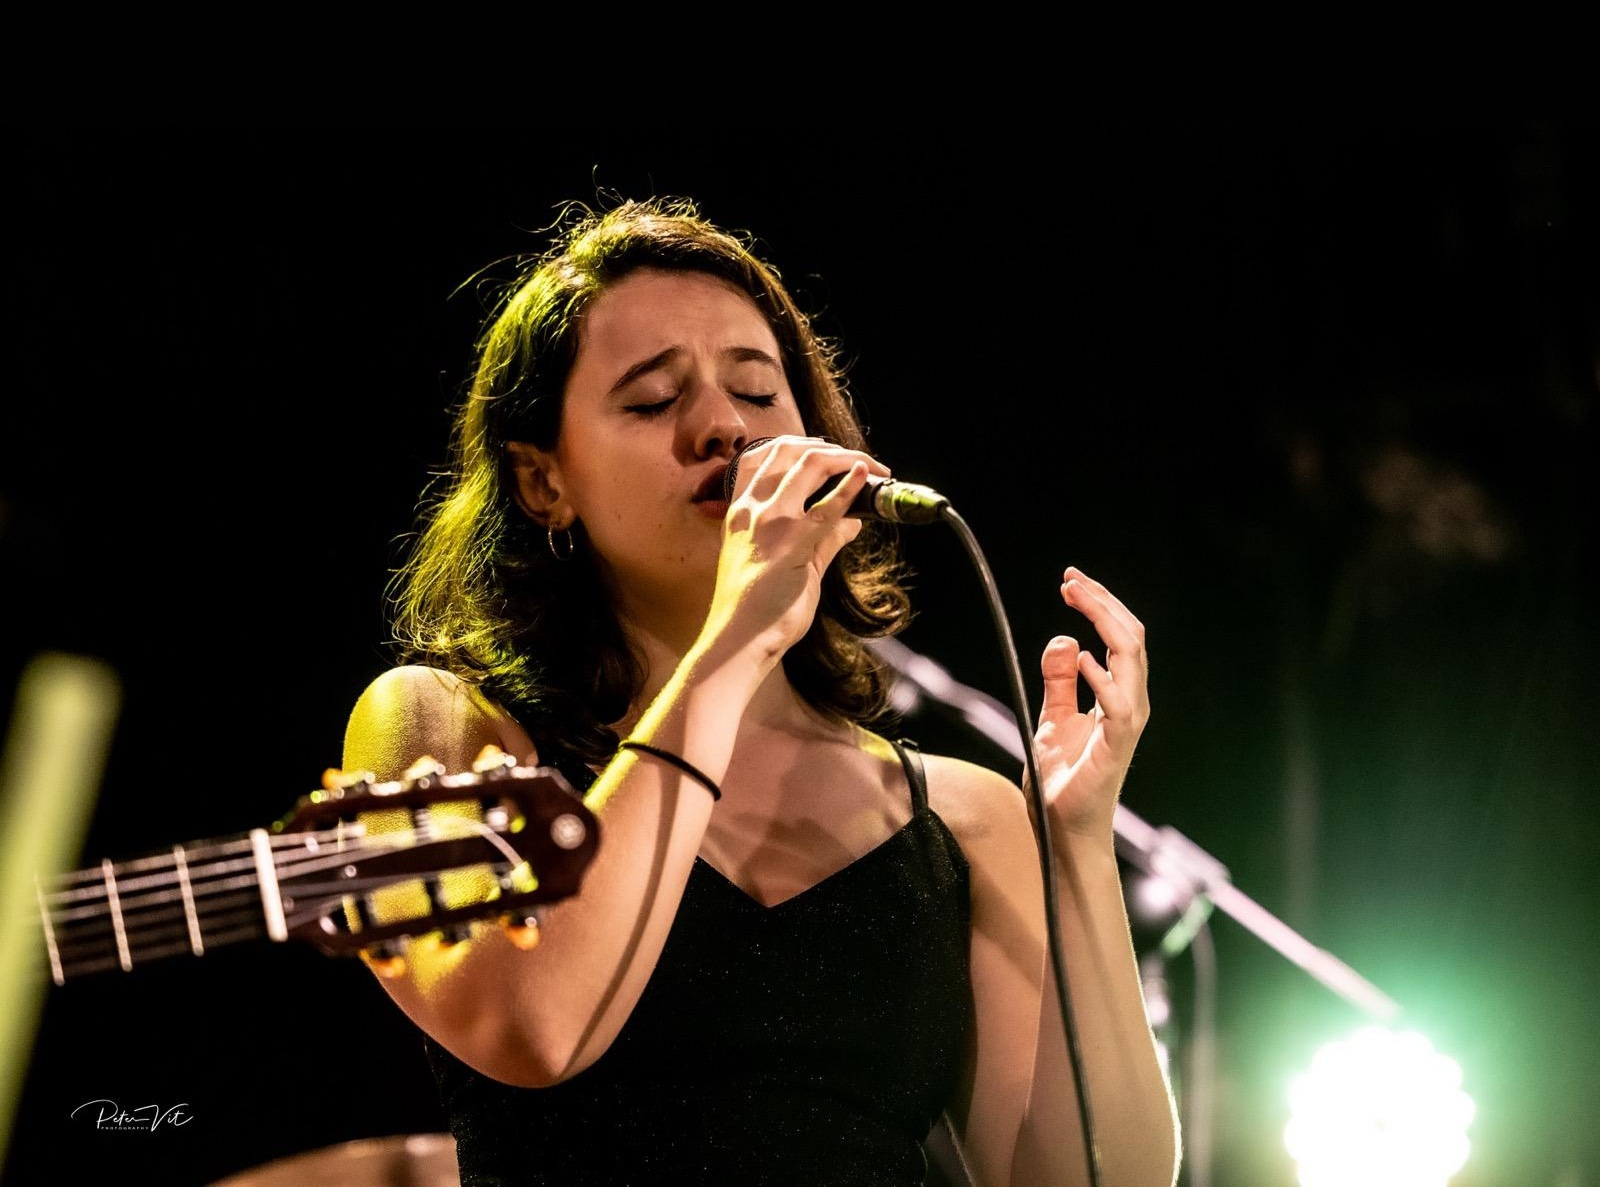
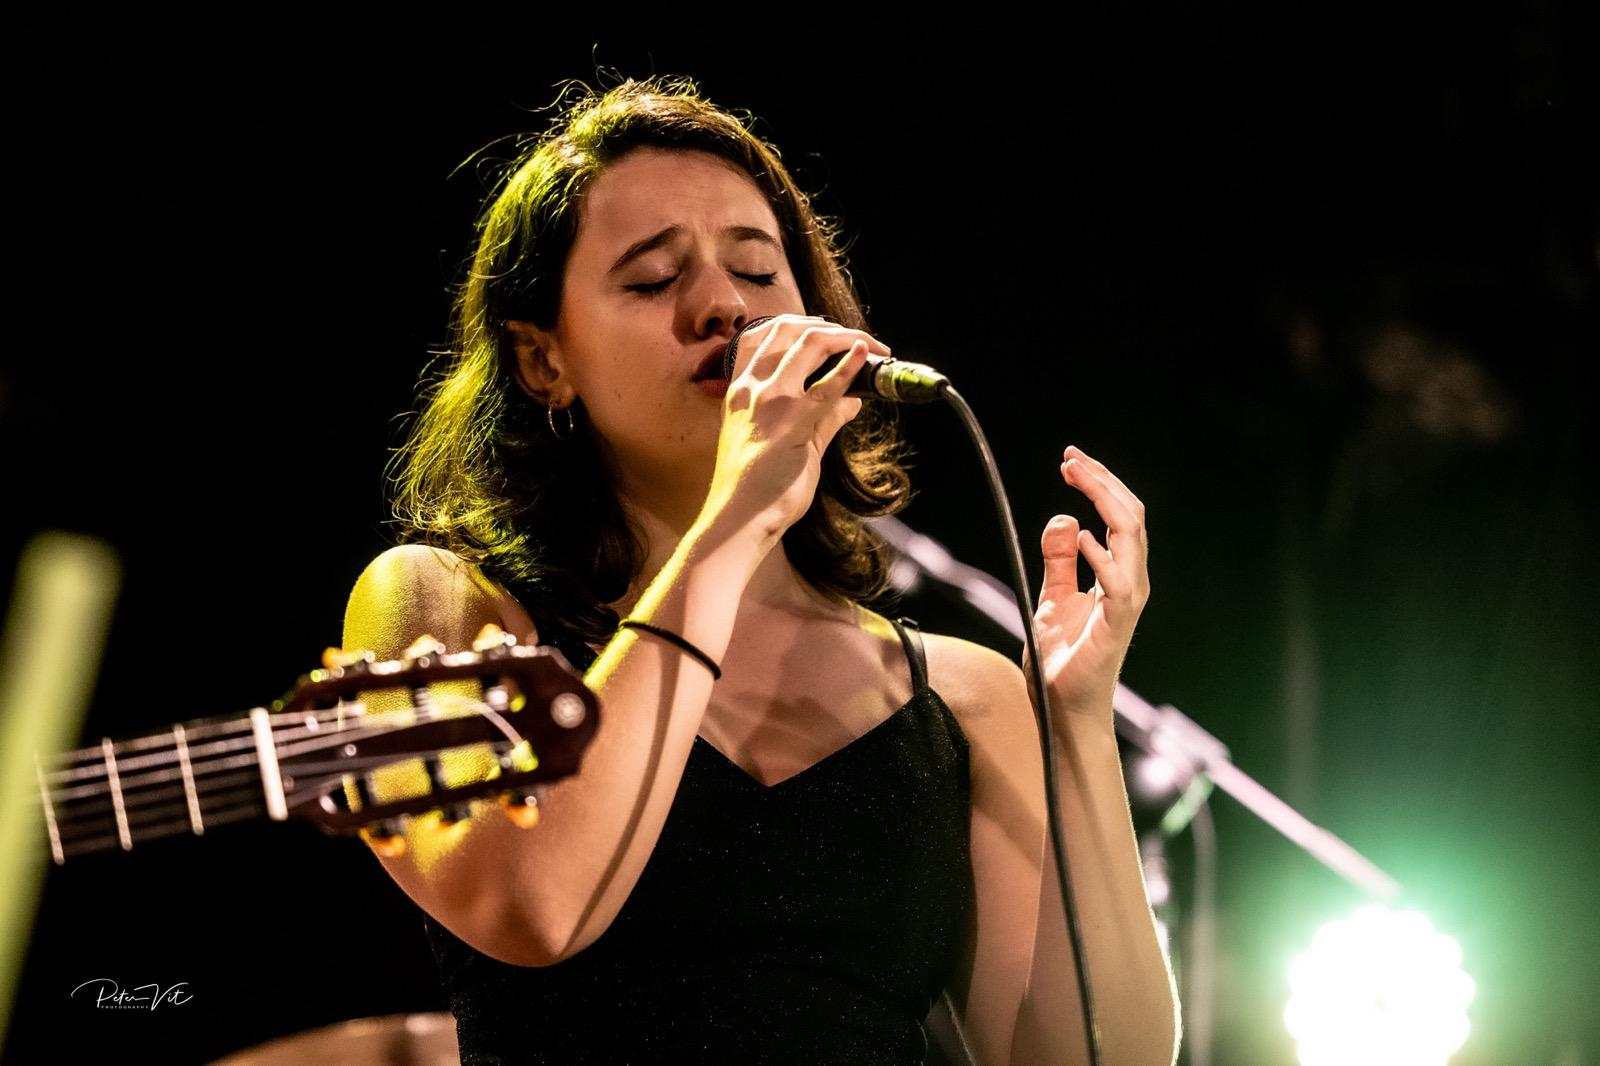
Home image added photographer name to frame

diff --git a/index.html b/index.html
@@ -42,10 +42,12 @@
     </nav>
 
     <!-- Hero Section -->
-    <header id="home" class="relative min-h-screen flex items-center justify-center bg-cover bg-center" style="background-image: url('images/home.jpeg');">
-        <!-- Replace with your high-resolution photo -->
+    <header id="home" class="relative w-full">
+        <img src="images/home.jpeg" alt="NOA Background" class="w-full h-auto block" />
+
         <div class="absolute inset-0 bg-black/60"></div>
-        <div class="relative text-center text-white px-4">
+
+        <div class="absolute inset-0 flex flex-col items-center justify-center text-center text-white px-4">
             <h1 class="text-5xl md:text-7xl font-bold hero-text leading-tight">NOA</h1>
             <p class="text-xl md:text-2xl mt-4 font-light hero-text">Vocalist I Songwriter I Scatter</p>
         </div>
